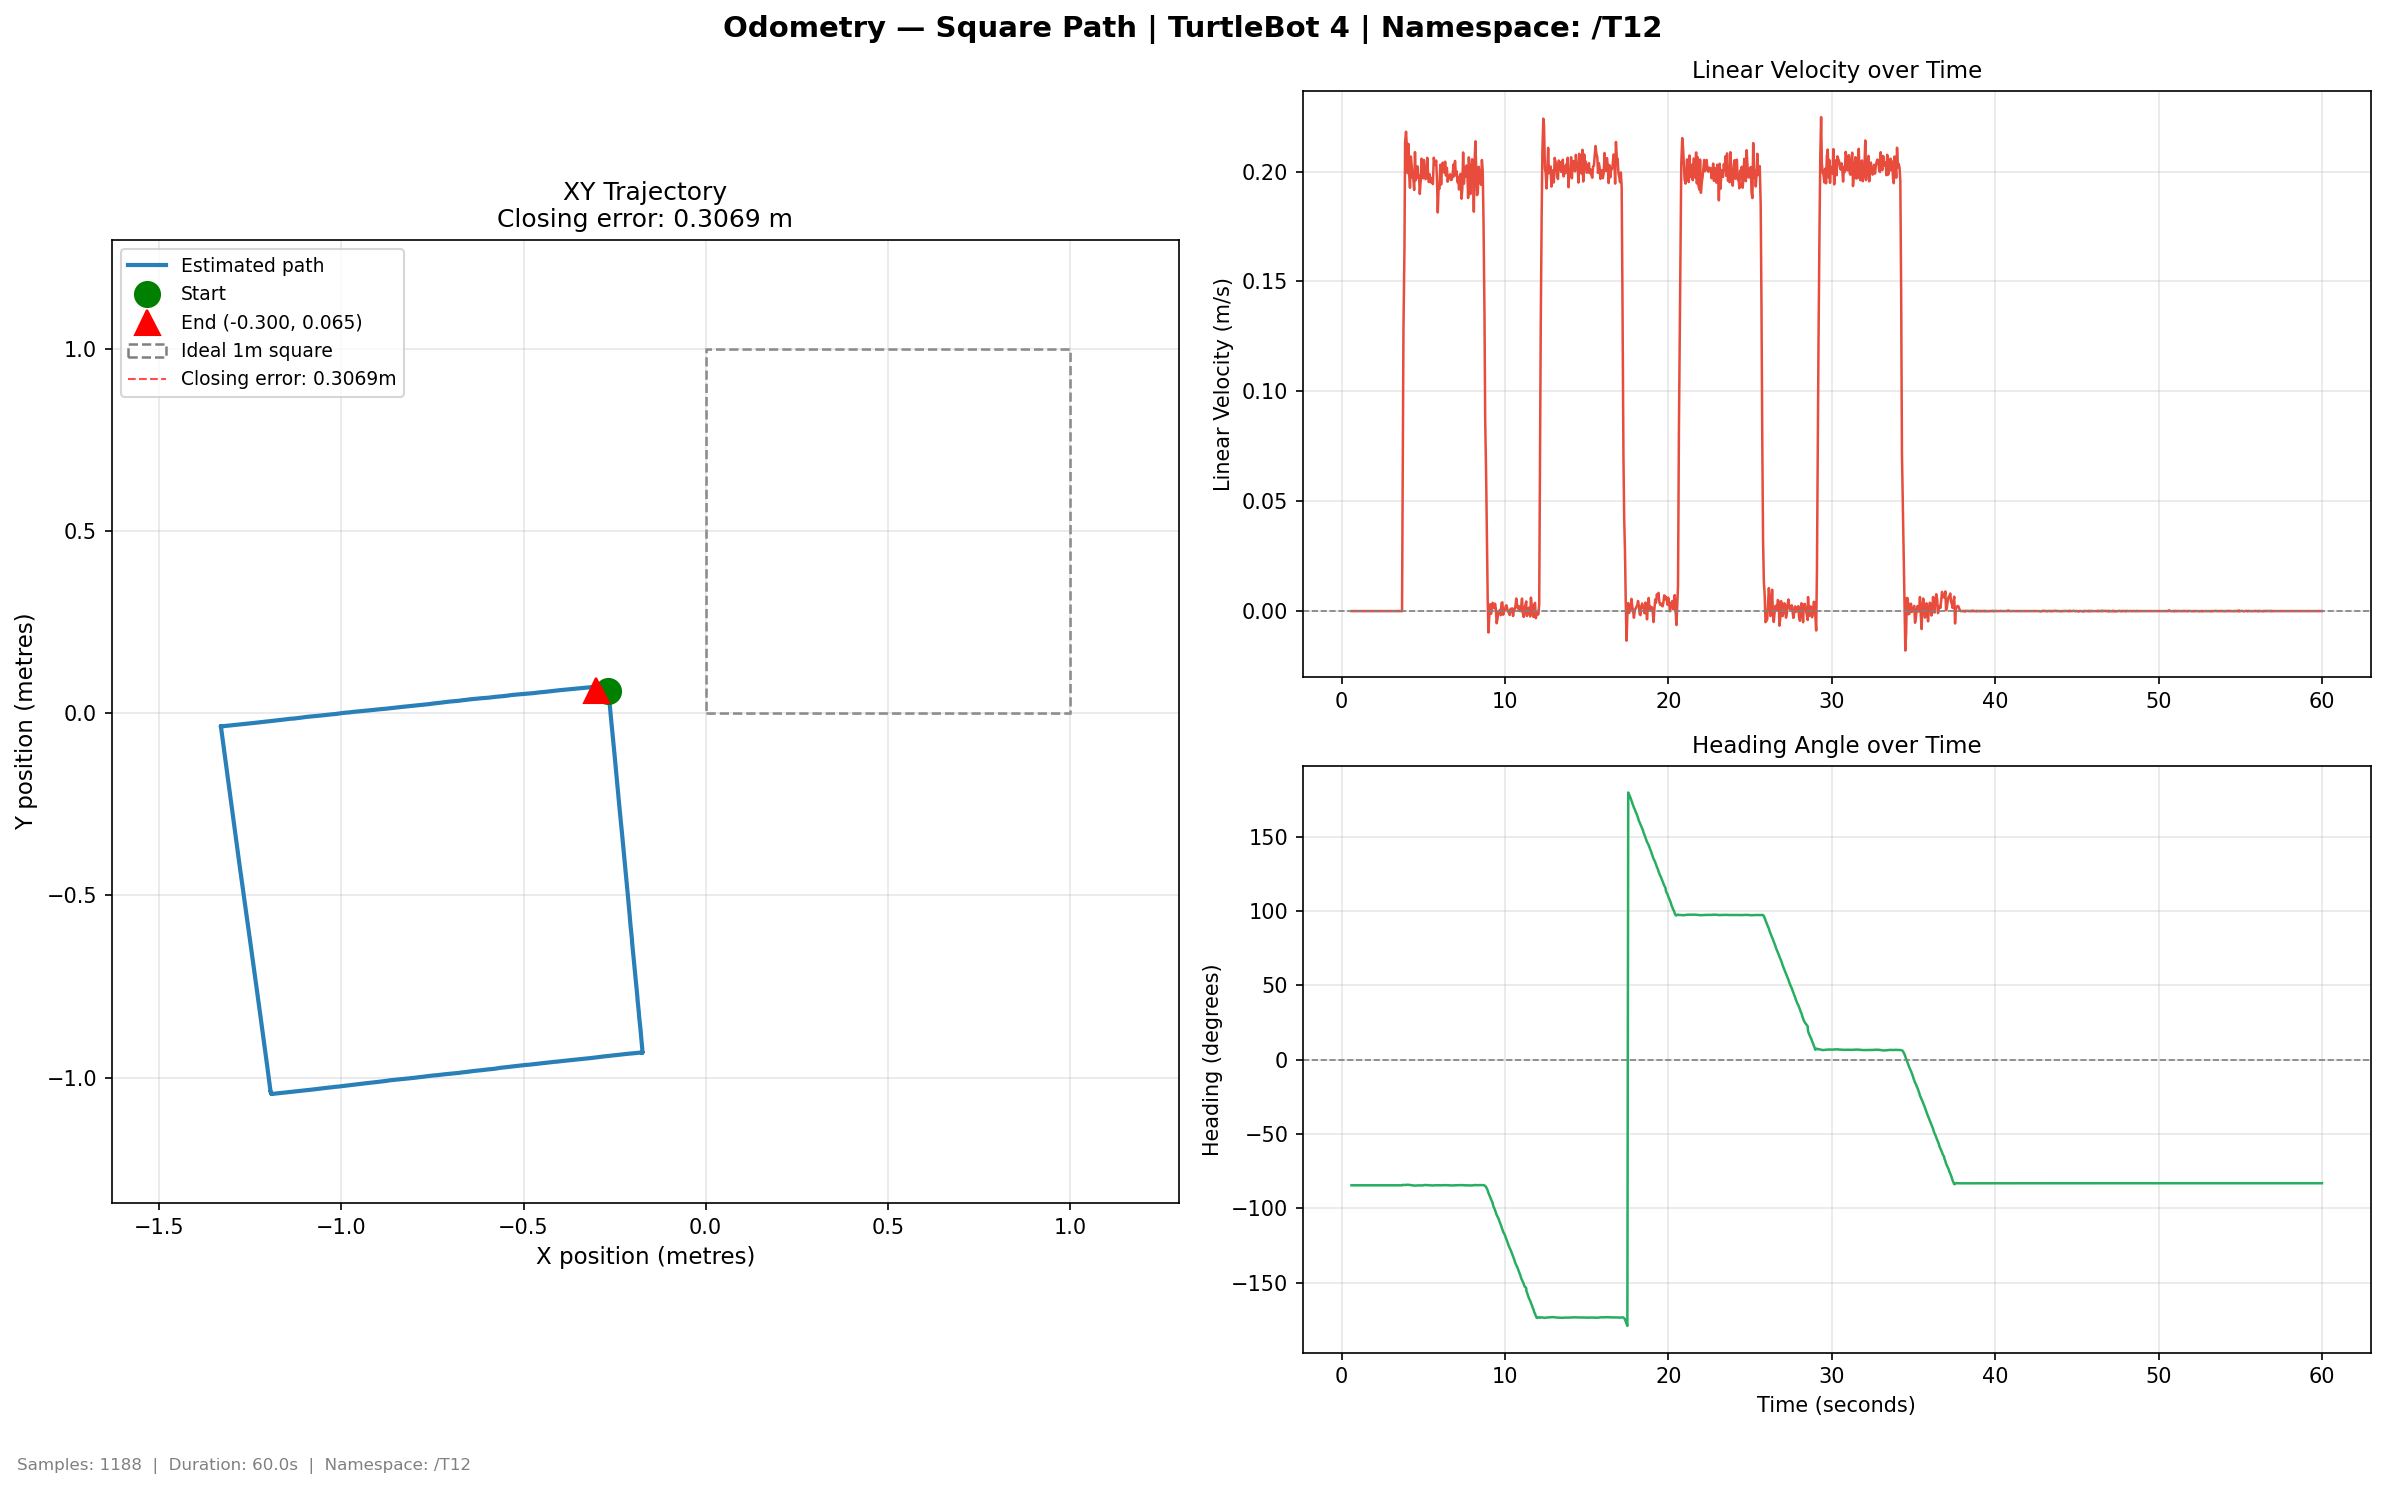
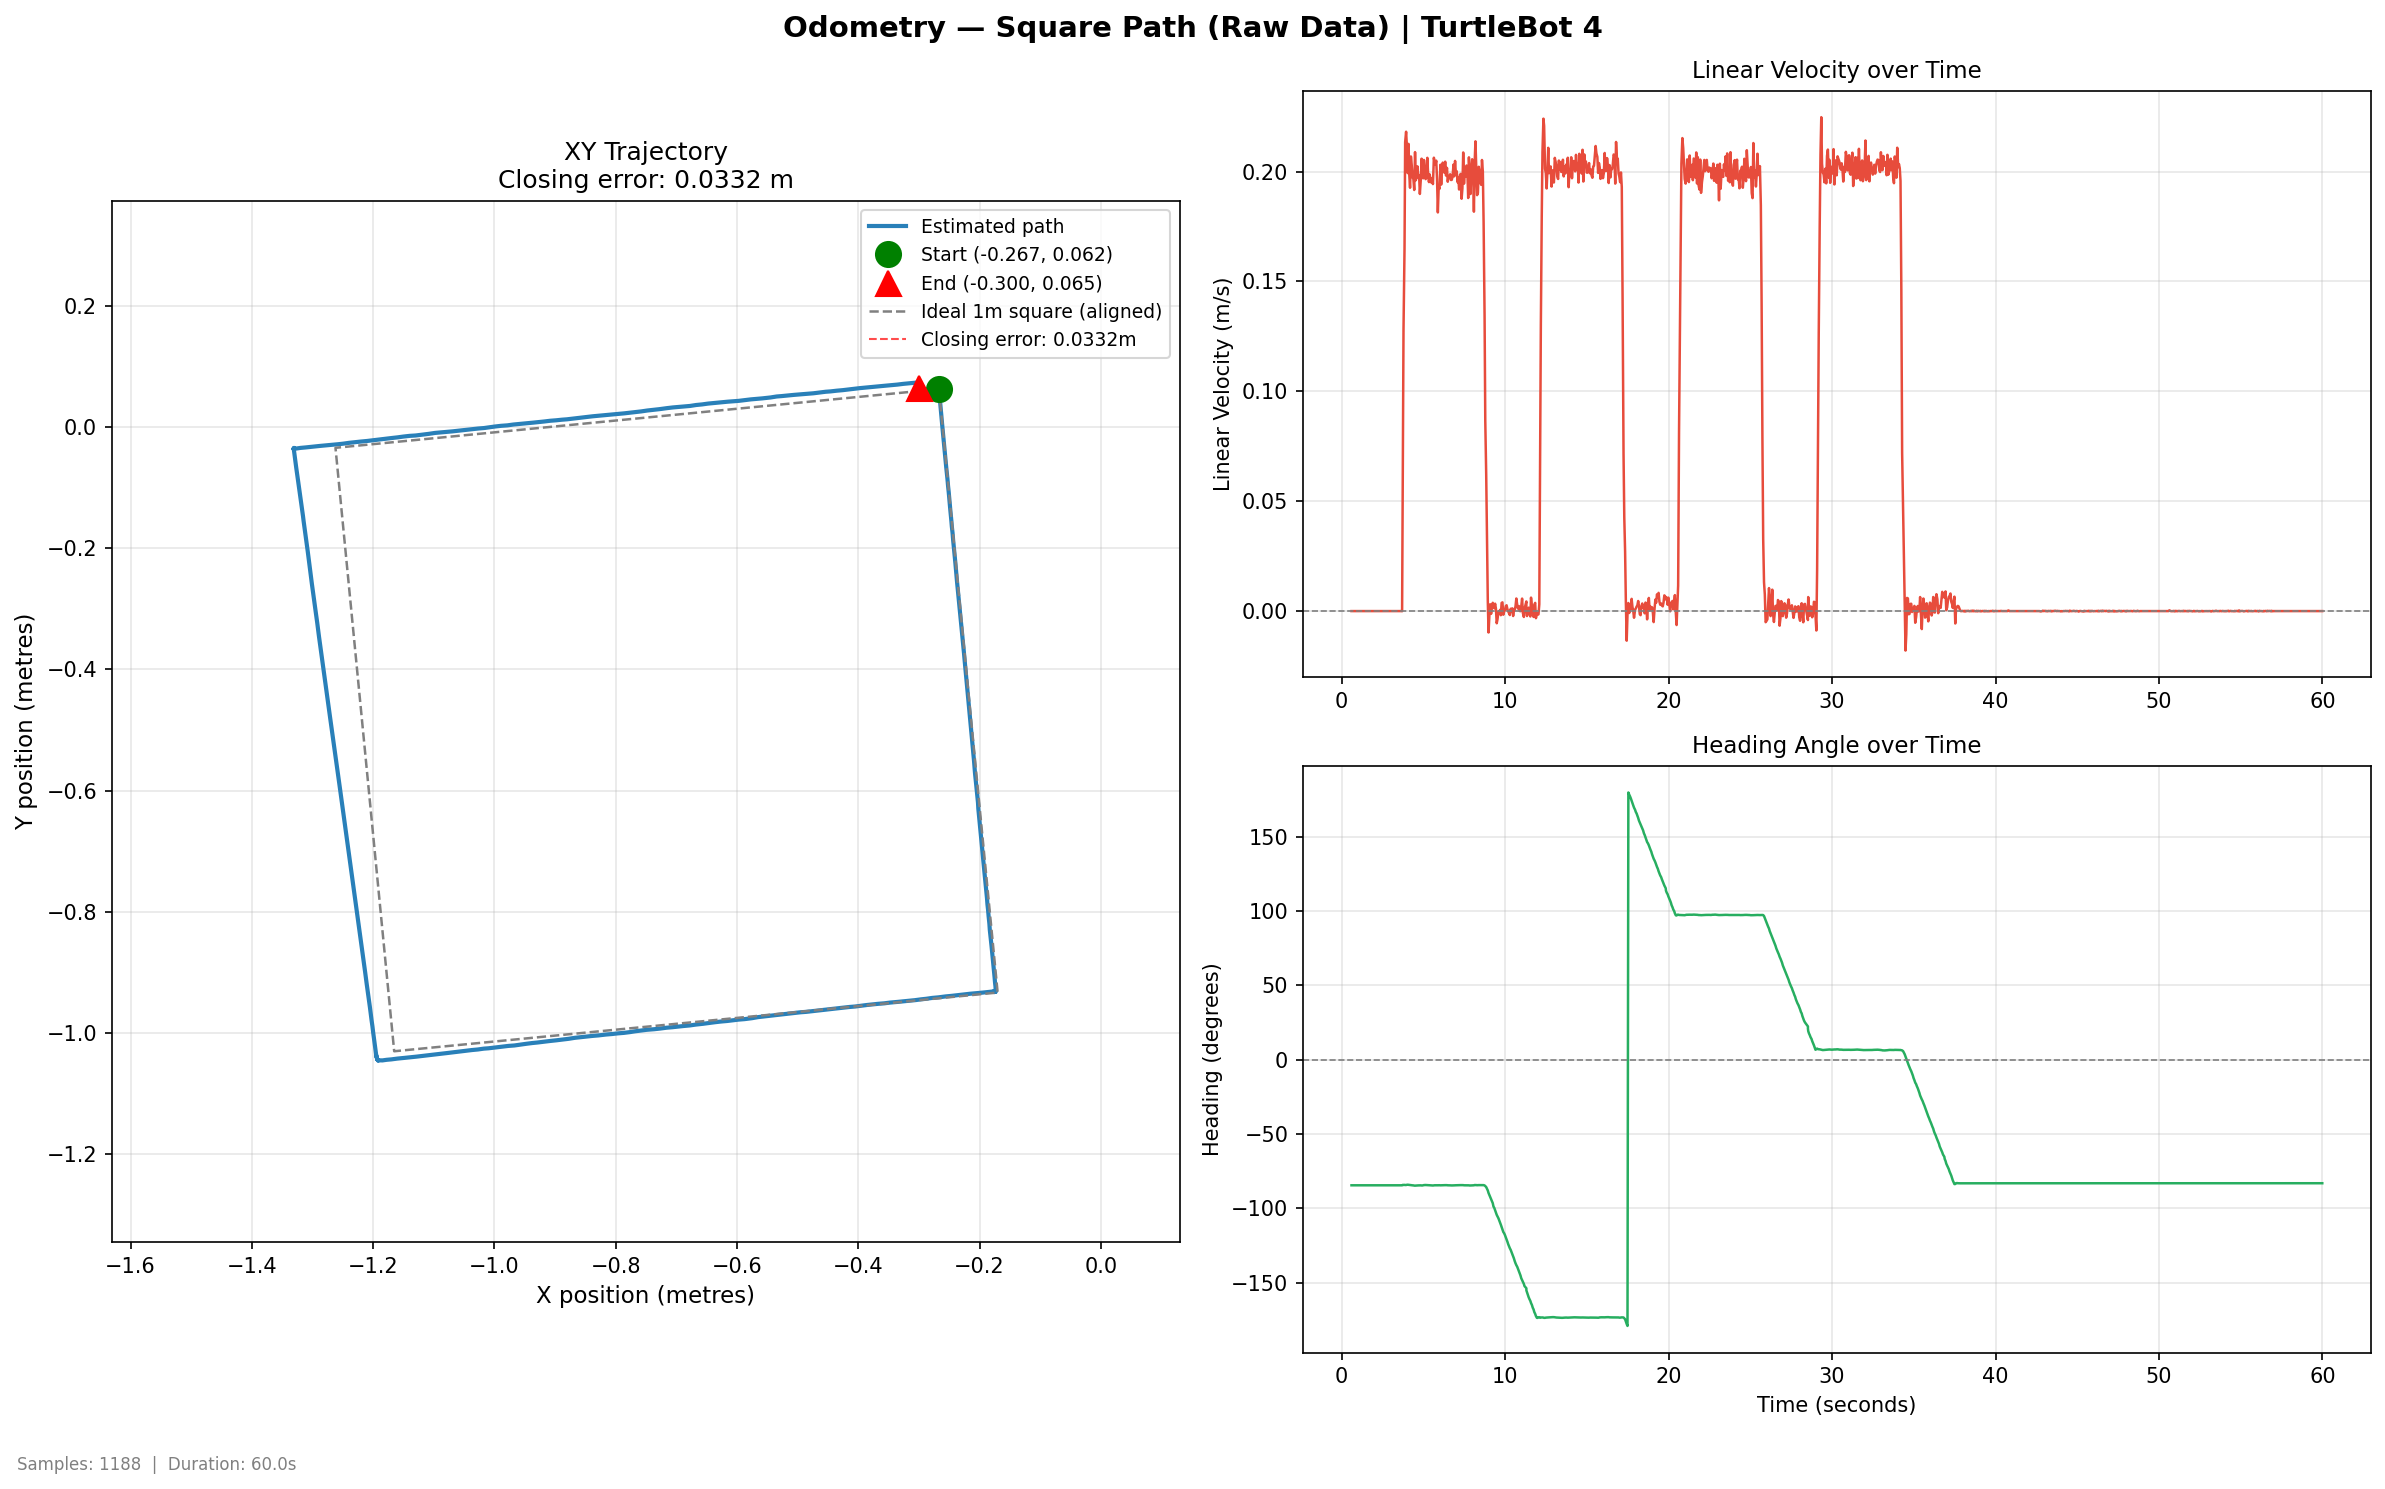
square fixed

diff --git a/src/tb4_sensor_reader/tb4_sensor_reader/sqaure_plotter.py b/src/tb4_sensor_reader/tb4_sensor_reader/sqaure_plotter.py
@@ -1,0 +1,139 @@
+#!/usr/bin/env python3
+import csv
+import math
+import matplotlib
+matplotlib.use('Agg')
+import matplotlib.pyplot as plt
+
+INPUT_CSV = 'odom_square_t5.csv'
+OUTPUT_PLOT = 'odom_square_t5.png'
+
+def make_square(start_x, start_y, theta):
+    """1m square starting at (start_x, start_y), rotated by theta."""
+    
+    # square in local frame (robot forward direction)
+    square = [
+        (0, 0),
+        (1, 0),
+        (1, -1),
+        (0, -1),
+        (0, 0)
+    ]
+
+    rx, ry = [], []
+
+    for x, y in square:
+        # rotate
+        xr = x * math.cos(theta) - y * math.sin(theta)
+        yr = x * math.sin(theta) + y * math.cos(theta)
+
+        # translate to start position
+        rx.append(xr + start_x)
+        ry.append(yr + start_y)
+
+    return rx, ry
+
+
+# --- Load CSV ---
+data = []
+with open(INPUT_CSV, 'r') as f:
+    reader = csv.DictReader(f)
+    for row in reader:
+        data.append({
+            'time': float(row['time']),
+            'x': float(row['x']),
+            'y': float(row['y']),
+            'yaw_deg': float(row['yaw_deg']),
+            'vel_lin': float(row['vel_lin']),
+            'vel_ang': float(row['vel_ang']),
+        })
+
+if not data:
+    print("No data found.")
+    exit()
+
+# --- Extract ---
+times   = [r['time'] for r in data]
+xs      = [r['x'] for r in data]
+ys      = [r['y'] for r in data]
+yaws    = [r['yaw_deg'] for r in data]
+vel_lin = [r['vel_lin'] for r in data]
+
+# --- Start/end (RAW, no modification) ---
+x_start, y_start = xs[0], ys[0]
+x_end, y_end     = xs[-1], ys[-1]
+
+# --- Closing error (RAW space) ---
+closing = math.sqrt((x_end - x_start)**2 + (y_end - y_start)**2)
+
+# --- Use initial heading ONLY for ideal square orientation ---
+theta0 = math.radians(yaws[0])
+square_x, square_y = make_square(x_start, y_start, theta0)
+
+# --- Plot ---
+fig = plt.figure(figsize=(16, 10))
+fig.suptitle('Odometry — Square Path (Raw Data) | TurtleBot 4',
+             fontsize=14, fontweight='bold')
+
+# --- Trajectory ---
+ax_traj = fig.add_subplot(1, 2, 1)
+ax_traj.plot(xs, ys, color='#2980B9', linewidth=2, label='Estimated path')
+
+# Start / End markers (RAW coordinates)
+ax_traj.plot(x_start, y_start, 'go', markersize=12,
+             label=f'Start ({x_start:.3f}, {y_start:.3f})', zorder=5)
+
+ax_traj.plot(x_end, y_end, 'r^', markersize=12,
+             label=f'End ({x_end:.3f}, {y_end:.3f})', zorder=5)
+
+# Ideal square (rotated to match initial heading)
+ax_traj.plot(square_x, square_y,
+             linestyle='--',
+             color='gray',
+             linewidth=1.2,
+             label='Ideal 1m square (aligned)')
+
+# Closing error line
+ax_traj.plot([x_end, x_start], [y_end, y_start],
+             'r--', linewidth=1, alpha=0.7,
+             label=f'Closing error: {closing:.4f}m')
+
+ax_traj.set_title(f'XY Trajectory\nClosing error: {closing:.4f} m', fontsize=12)
+ax_traj.set_xlabel('X position (metres)', fontsize=11)
+ax_traj.set_ylabel('Y position (metres)', fontsize=11)
+ax_traj.legend(fontsize=9)
+ax_traj.grid(True, alpha=0.3)
+ax_traj.set_aspect('equal')
+
+# --- Bounds (raw data, no artificial padding from square) ---
+margin = 0.3
+ax_traj.set_xlim(min(xs + square_x) - margin, max(xs + square_x) + margin)
+ax_traj.set_ylim(min(ys + square_y) - margin, max(ys + square_y) + margin)
+
+# --- Velocity ---
+ax_vel = fig.add_subplot(2, 2, 2)
+ax_vel.plot(times, vel_lin, color='#E74C3C', linewidth=1.2)
+ax_vel.axhline(y=0, color='gray', linestyle='--', linewidth=0.8)
+ax_vel.set_ylabel('Linear Velocity (m/s)', fontsize=10)
+ax_vel.set_title('Linear Velocity over Time', fontsize=11)
+ax_vel.grid(True, alpha=0.3)
+
+# --- Heading ---
+ax_yaw = fig.add_subplot(2, 2, 4)
+ax_yaw.plot(times, yaws, color='#27AE60', linewidth=1.2)
+ax_yaw.axhline(y=0, color='gray', linestyle='--', linewidth=0.8)
+ax_yaw.set_ylabel('Heading (degrees)', fontsize=10)
+ax_yaw.set_xlabel('Time (seconds)', fontsize=10)
+ax_yaw.set_title('Heading Angle over Time', fontsize=11)
+ax_yaw.grid(True, alpha=0.3)
+
+# --- Footer ---
+fig.text(0.01, 0.01,
+         f"Samples: {len(data)}  |  Duration: {times[-1]:.1f}s",
+         fontsize=8, color='gray')
+
+plt.tight_layout(rect=[0, 0.03, 1, 1])
+plt.savefig(OUTPUT_PLOT, dpi=150, bbox_inches='tight')
+plt.close()
+
+print(f"Raw plot saved: {OUTPUT_PLOT}")
